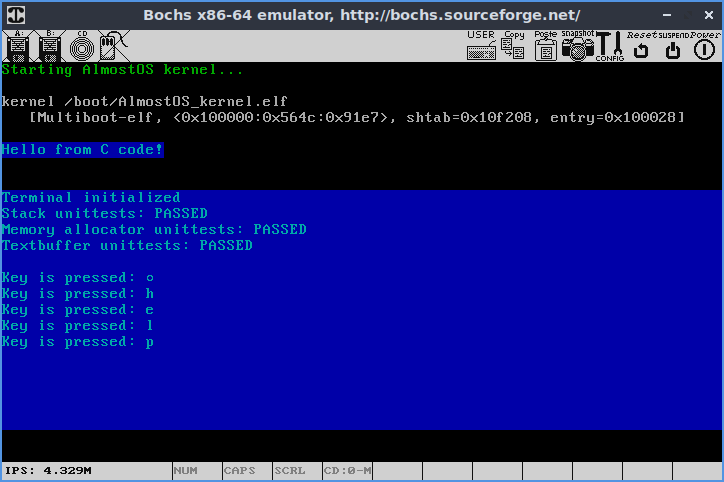
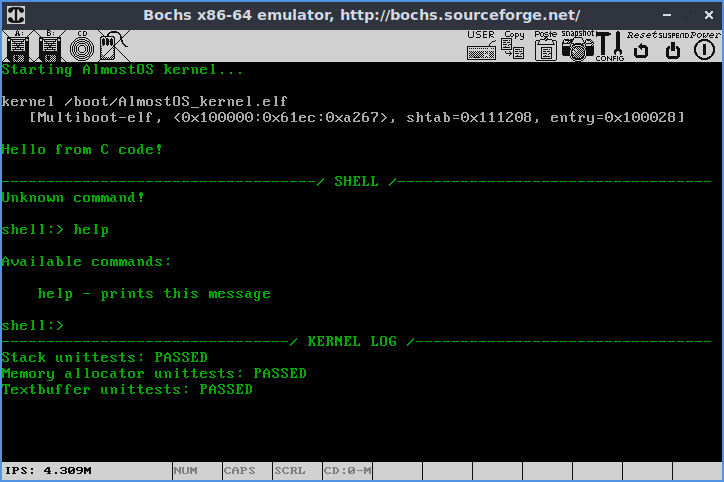
Improved a look of an OS a little bit by adding seperators between shell and log outputs

diff --git a/source_code/kernel_main.c b/source_code/kernel_main.c
@@ -233,7 +233,7 @@ int printf ( const char * format, ... )
  *                                  Functions                                  *
  *******************************************************************************/
 
-terminal_contex_t stdout_terminal;
+terminal_contex_t shell_terminal;
 terminal_contex_t log_terminal;
 
 void LOG(const unsigned char* const message)
@@ -243,14 +243,21 @@ void LOG(const unsigned char* const message)
 
 void stdandard_println(const unsigned char* const message)
 {
-    terminal_printline(&stdout_terminal, message);
+    terminal_printline(&shell_terminal, message);
 }
 
 void kernel_c_main( void )
 {
     unsigned char hello_msg[] = "Hello from C code!";
-
     print_string_to_VGA_display_buffer(400, hello_msg, sizeof(hello_msg)-1);
+
+    //unsigned char shell_header[] = "-----------------------------------/ Shell /-----------------------------------";
+    unsigned char shell_header[] = "-----------------------------------/ SHELL /-----------------------------------";
+    print_string_to_VGA_display_buffer(560, shell_header, sizeof(shell_header)-1);
+
+    //unsigned char klog_header[] = "--------------------------------/ Kernel log /---------------------------------";
+    unsigned char klog_header[] = "--------------------------------/ KERNEL LOG /---------------------------------";
+    print_string_to_VGA_display_buffer(1360, klog_header, sizeof(klog_header)-1);
 
     //int test = test_func(34, 2);
 
@@ -261,37 +268,37 @@ void kernel_c_main( void )
     //terminal__init();
 
     // New terminal
-    terminal_init(&stdout_terminal, 8, 8);
-    terminal_init(&log_terminal, 18, 5);
+    terminal_init(&shell_terminal,  8, 8, ENABLE_INPUT_LINE);
+    terminal_init(&log_terminal,   18, 5, DISABLE_INPUT_LINE);
 
 #if 0
-    terminal_printline(&stdout_terminal, "Linija broj  1");
-    terminal_printline(&stdout_terminal, "Linija broj  2");
-    terminal_printline(&stdout_terminal, "Linija broj  3");
-    terminal_printline(&stdout_terminal, "Linija broj  4");
-    terminal_printline(&stdout_terminal, "Linija broj  5");
-    terminal_printline(&stdout_terminal, "Linija broj  6");
-    terminal_printline(&stdout_terminal, "Linija broj  7");
-    terminal_printline(&stdout_terminal, "Linija broj  8");
-    terminal_printline(&stdout_terminal, "Linija broj  9");
-    terminal_printline(&stdout_terminal, "Linija broj 10");
-    terminal_printline(&stdout_terminal, "Linija broj 11");
-    terminal_printline(&stdout_terminal, "Linija broj 12");
-    terminal_printline(&stdout_terminal, "Linija broj 13");
-    terminal_printline(&stdout_terminal, "Linija broj 14");
-    terminal_printline(&stdout_terminal, "Linija broj 15");
-    terminal_printline(&stdout_terminal, "Linija broj 16");
-    terminal_printline(&stdout_terminal, "Linija broj 17");
-    terminal_printline(&stdout_terminal, "Linija broj 18");
-    terminal_printline(&stdout_terminal, "Linija broj 19");
-    terminal_printline(&stdout_terminal, "Linija broj 20");
-    terminal_printline(&stdout_terminal, "Linija broj 21");
-    terminal_printline(&stdout_terminal, "Linija broj 22");
-    terminal_printline(&stdout_terminal, "Linija broj 23");
-    terminal_printline(&stdout_terminal, "broj 24");
-    terminal_printline(&stdout_terminal, "broj 25");
-    terminal_printline(&stdout_terminal, "broj 26");
-    terminal_printline(&stdout_terminal, "broj 27");
+    terminal_printline(&shell_terminal, "Linija broj  1");
+    terminal_printline(&shell_terminal, "Linija broj  2");
+    terminal_printline(&shell_terminal, "Linija broj  3");
+    terminal_printline(&shell_terminal, "Linija broj  4");
+    terminal_printline(&shell_terminal, "Linija broj  5");
+    terminal_printline(&shell_terminal, "Linija broj  6");
+    terminal_printline(&shell_terminal, "Linija broj  7");
+    terminal_printline(&shell_terminal, "Linija broj  8");
+    terminal_printline(&shell_terminal, "Linija broj  9");
+    terminal_printline(&shell_terminal, "Linija broj 10");
+    terminal_printline(&shell_terminal, "Linija broj 11");
+    terminal_printline(&shell_terminal, "Linija broj 12");
+    terminal_printline(&shell_terminal, "Linija broj 13");
+    terminal_printline(&shell_terminal, "Linija broj 14");
+    terminal_printline(&shell_terminal, "Linija broj 15");
+    terminal_printline(&shell_terminal, "Linija broj 16");
+    terminal_printline(&shell_terminal, "Linija broj 17");
+    terminal_printline(&shell_terminal, "Linija broj 18");
+    terminal_printline(&shell_terminal, "Linija broj 19");
+    terminal_printline(&shell_terminal, "Linija broj 20");
+    terminal_printline(&shell_terminal, "Linija broj 21");
+    terminal_printline(&shell_terminal, "Linija broj 22");
+    terminal_printline(&shell_terminal, "Linija broj 23");
+    terminal_printline(&shell_terminal, "broj 24");
+    terminal_printline(&shell_terminal, "broj 25");
+    terminal_printline(&shell_terminal, "broj 26");
+    terminal_printline(&shell_terminal, "broj 27");
 #endif
 
     // QTODO: this repeating code needs a function of its own
@@ -1477,7 +1484,7 @@ void event_on_keypress(unsigned char key)
             char string[] = "New terminal test string ";
             string[sizeof(string) -2] = key;
 
-            terminal_printline(&stdout_terminal, string);
+            terminal_printline(&shell_terminal, string);
         }
     }
 
@@ -1490,10 +1497,10 @@ void event_on_keypress(unsigned char key)
 #if 0
     char string[] = "Key is pressed:  ";
     string[sizeof(string) -2] = key;
-    terminal_printline(&stdout_terminal, string);
+    terminal_printline(&shell_terminal, string);
 #endif
 
-    terminal_on_keypress(&stdout_terminal, key);
+    terminal_on_keypress(&shell_terminal, key);
     //LOG(string);
 }
 

diff --git a/source_code/terminal.c b/source_code/terminal.c
@@ -23,7 +23,7 @@ void input_callback(const char * input);
 
 
 // TODO: Add argument for no-input mode
-void terminal_init(terminal_contex_t *terminal_context, int window_position_y, int window_size_y)
+void terminal_init(terminal_contex_t *terminal_context, int window_position_y, int window_size_y, bool is_input_enabled)
 {
     if (terminal_context == NULL)
     {
@@ -42,6 +42,8 @@ void terminal_init(terminal_contex_t *terminal_context, int window_position_y, i
         printf("ERROR: terminal_init() - window_size_y >= TERMINAL_MAX_Y");
         window_size_y = TERMINAL_MAX_Y;
     }
+
+    terminal_context->is_input_enabled = is_input_enabled;
 
     // Clear the buffer
     for (int y = 0; y < TERMINAL_MAX_Y; y++)
@@ -144,14 +146,17 @@ void terminal_render_to_VGA(terminal_contex_t *terminal_context)
         line_counter++;
     }
 
-    // Draw input line
-    for (int x = 0; x < sizeof(terminal_context->input_line); x++)
+    if (terminal_context->is_input_enabled == ENABLE_INPUT_LINE)
     {
-        char character = terminal_context->input_line[x];
+        // Draw input line
+        for (int x = 0; x < sizeof(terminal_context->input_line); x++)
+        {
+            char character = terminal_context->input_line[x];
 
-        int y = terminal_context->window_position_y + line_counter; // TODO: Move out of loop
+            int y = terminal_context->window_position_y + line_counter; // TODO: Move out of loop
 
-        print_char_to_VGA_display(x, y, character);
+            print_char_to_VGA_display(x, y, character);
+        }
     }
 }
 
@@ -190,6 +195,11 @@ void terminal_printline(terminal_contex_t *terminal_context, char* string)
 
 void terminal_on_keypress(terminal_contex_t *terminal_context, unsigned char key)
 {
+    if (terminal_context->is_input_enabled == DISABLE_INPUT_LINE)
+    {
+        return;
+    }
+
     if (key >= 32 && key < 127) // Non-special characters
     {
         terminal_context->input_line[terminal_context->input_cursor_position] = key;

diff --git a/source_code/terminal.h b/source_code/terminal.h
@@ -1,9 +1,14 @@
 #ifndef _TERMINAL_H_
 #define _TERMINAL_H_
 
+#include "kernel_stddef.h"
+
 
 #define TERMINAL_MAX_X (80)
 #define TERMINAL_MAX_Y (25)
+
+#define ENABLE_INPUT_LINE  (true)
+#define DISABLE_INPUT_LINE (false)
 
 typedef struct terminal_contex_tag
 {
@@ -14,9 +19,10 @@ typedef struct terminal_contex_tag
     int  window_size_y;         // Size on the display (in text lines)
     int  current_first_line;    // Position of the first line to be displayed
     int  current_end_line;      // Position of the end of the buffer
+    bool is_input_enabled;
 } terminal_contex_t; // TODO: typo --> context
 
-void terminal_init          (terminal_contex_t *terminal_context, int window_position_y, int window_size_y);
+void terminal_init          (terminal_contex_t *terminal_context, int window_position_y, int window_size_y, bool is_input_enabled);
 void terminal_printline     (terminal_contex_t *terminal_context, char* string);
 void terminal_render_to_VGA (terminal_contex_t *terminal_context);
 void terminal_on_keypress   (terminal_contex_t *terminal_context, unsigned char key);
